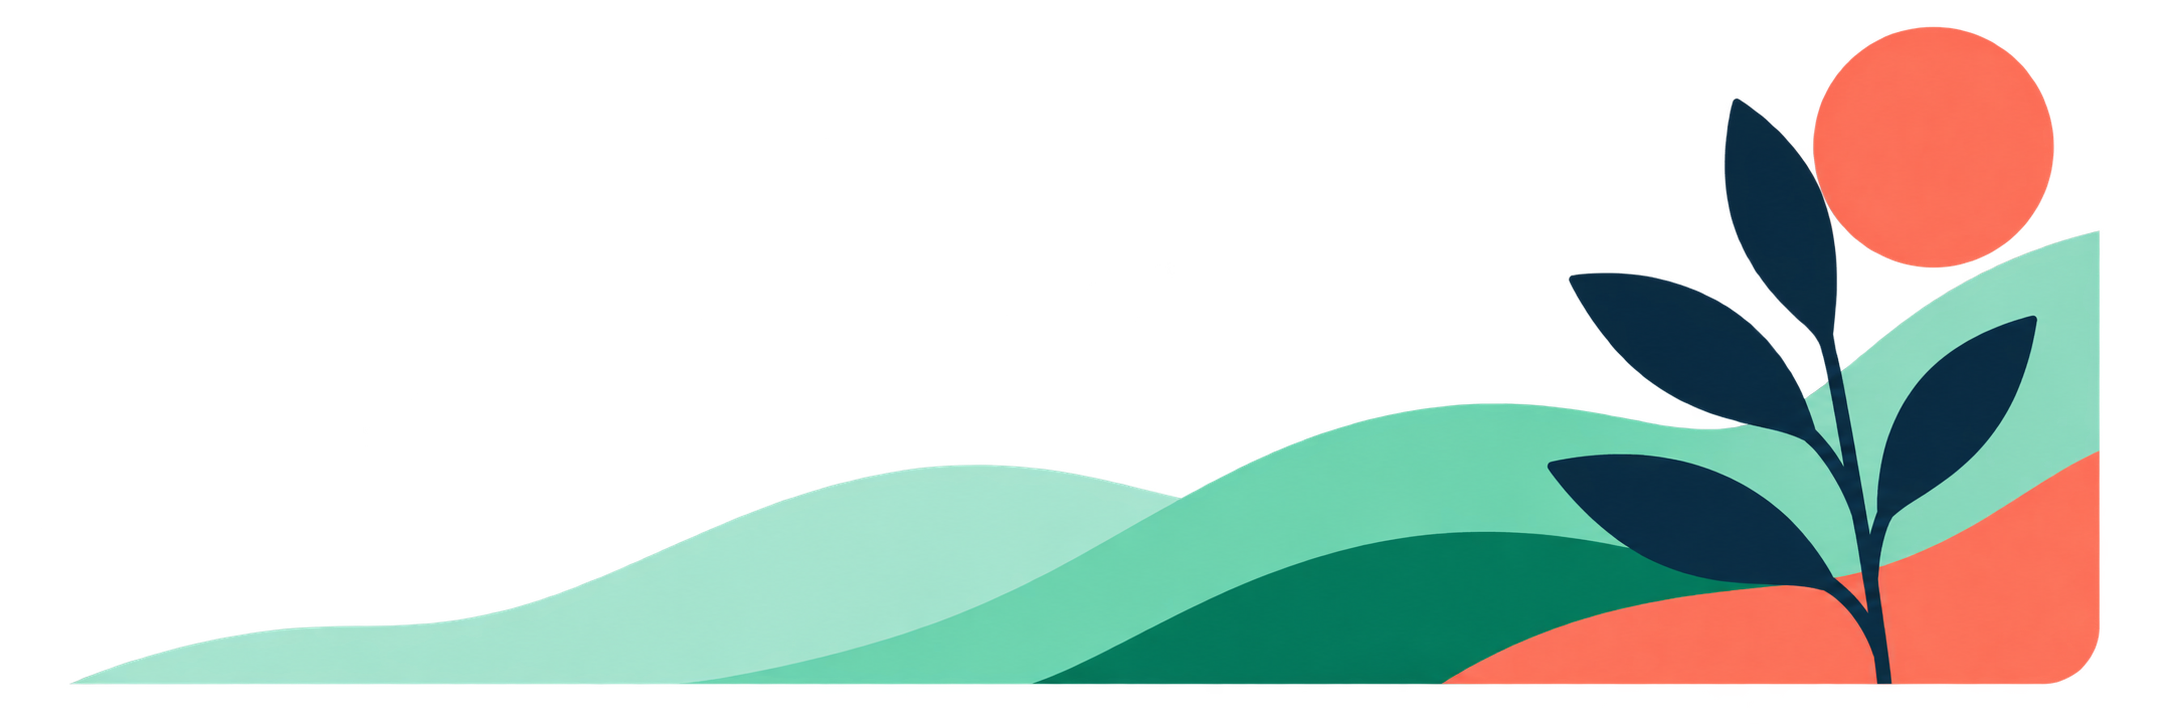
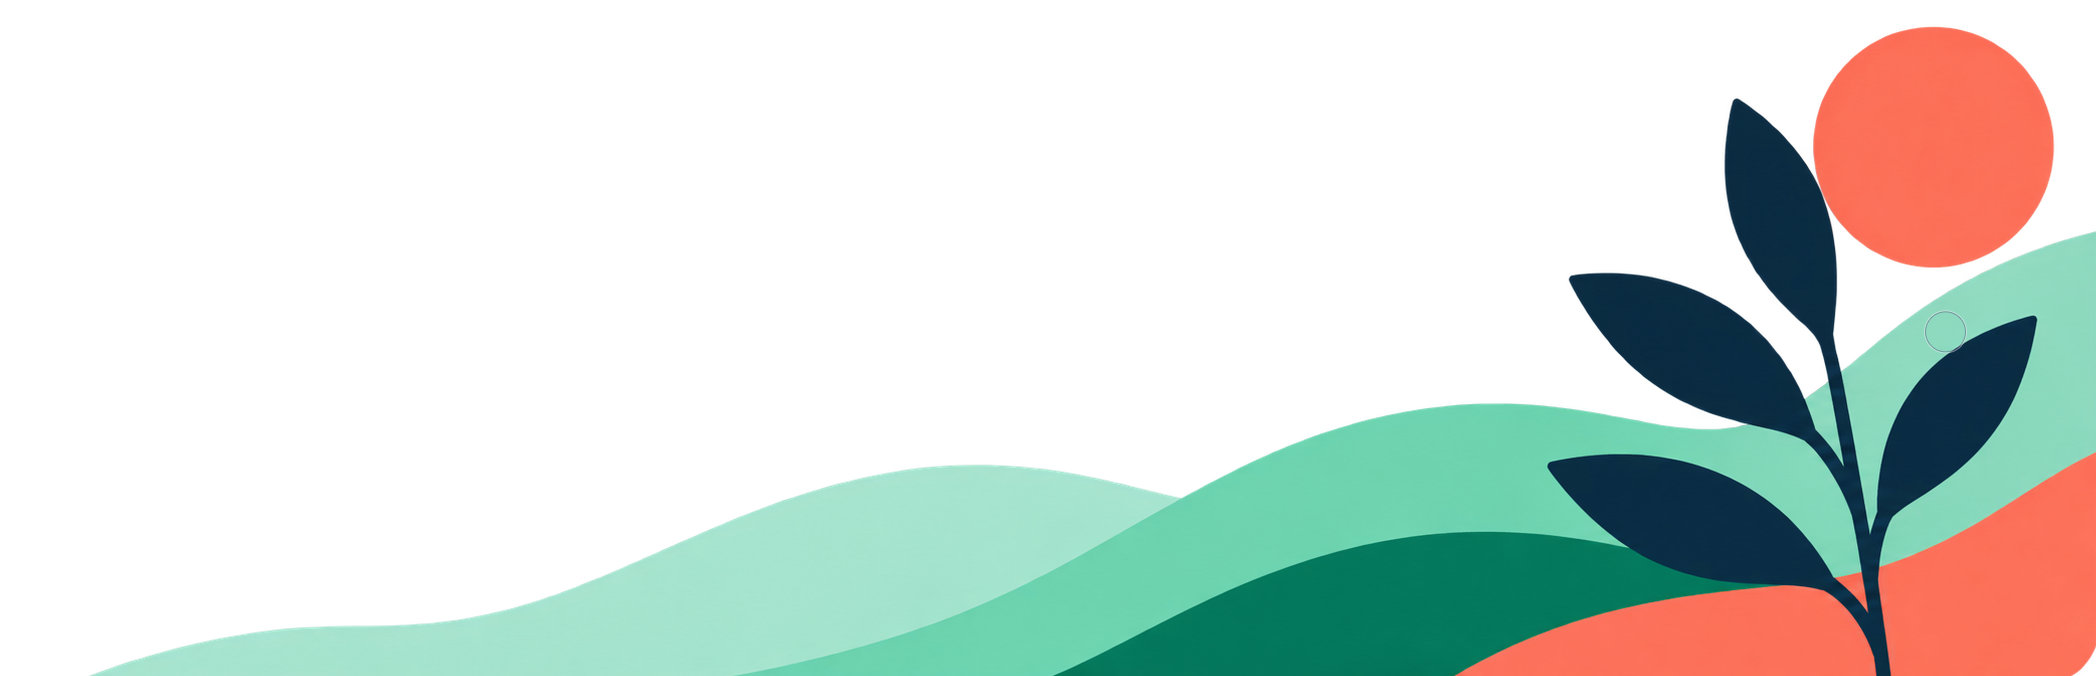
docs: clarify developer integration model

Changed region(s): [[0.031, 0.0311, 1.0, 1.0]]

diff --git a/src/app/developers/docs/concepts/page.tsx b/src/app/developers/docs/concepts/page.tsx
@@ -1,0 +1,114 @@
+import type { Metadata } from "next";
+import { ArrowDown, BadgeCheck, Blocks, Gift, Megaphone, UserRound } from "lucide-react";
+import { DocsCallout, DocsPageHeader, DocsSection, InlineCode } from "@/components/developer-docs/ui";
+
+export const metadata: Metadata = { title: "Core concepts" };
+
+const resources = [
+  {
+    icon: Megaphone,
+    title: "Campaign",
+    body: "A public community program. It controls the published widget, voting rounds, contribution budget, and the recipients supporters can choose.",
+  },
+  {
+    icon: Blocks,
+    title: "Developer project",
+    body: "An integration boundary. It owns API keys, browser origins, external user identities, entitlement rules, and webhook endpoints.",
+  },
+  {
+    icon: UserRound,
+    title: "Supporter",
+    body: "Your customer inside one developer project, identified by the stable external user ID supplied by your server.",
+  },
+  {
+    icon: Gift,
+    title: "Entitlement",
+    body: "A stable product-facing key and its current state. Rules decide when a supporter earns it; your application decides what it unlocks.",
+  },
+];
+
+export default function CoreConceptsPage() {
+  return (
+    <>
+      <DocsPageHeader
+        eyebrow="Core concepts"
+        title="Campaigns run the program. Projects connect your product."
+        description="Both belong to a workspace, but they solve different problems. They connect only when an identified supporter completes verified activity."
+      />
+
+      <DocsSection title="The resource model" description="A workspace can publish several campaigns and create several developer projects without pairing them one to one.">
+        <div className="grid gap-4 sm:grid-cols-2">
+          {resources.map(({ icon: Icon, title, body }) => (
+            <article key={title} className="rounded-2xl border border-line bg-surface p-5">
+              <Icon className="size-5 text-coral-dark" />
+              <h3 className="mt-4 text-lg font-semibold">{title}</h3>
+              <p className="mt-2 text-sm leading-6 text-ink-soft">{body}</p>
+            </article>
+          ))}
+        </div>
+      </DocsSection>
+
+      <DocsSection title="How an identified campaign donation flows" description="The developer project is attached at runtime through the supporter identity token—not through a permanent campaign setting.">
+        <div className="mx-auto max-w-2xl space-y-3">
+          <FlowStep number="1" title="Your app identifies the supporter" body="Your server issues a short-lived identity token from one developer project." />
+          <FlowArrow />
+          <FlowStep number="2" title="The campaign widget accepts that identity" body="The campaign and project must share a workspace, and the embedding origin must be allowed by the project." />
+          <FlowArrow />
+          <FlowStep number="3" title="The supporter contributes to a campaign recipient" body="The donation remains associated with the campaign and selected recipient for payment and reporting." />
+          <FlowArrow />
+          <FlowStep number="4" title="Our Impact records a project event" body={<>After PayPal capture succeeds, the identified donation becomes a <InlineCode>donation.completed</InlineCode> event in the project that issued the token.</>} />
+          <FlowArrow />
+          <FlowStep number="5" title="That project evaluates its rules" body="Only matching entitlement rules in that developer project update the supporter’s access." />
+        </div>
+      </DocsSection>
+
+      <DocsSection title="What is—and is not—connected">
+        <div className="overflow-hidden rounded-2xl border border-line bg-surface">
+          <RelationshipRow label="Campaign → recipient" value="Direct" detail="The campaign defines which connected recipients appear in its widget." />
+          <RelationshipRow label="Project → supporter" value="Direct" detail="The project owns the external identity namespace and supporter record." />
+          <RelationshipRow label="Project → entitlement" value="Direct" detail="Definitions and earning rules are scoped to one project." />
+          <RelationshipRow label="Campaign → project" value="Runtime" detail="There is no permanent one-to-one link. A valid project identity joins them for one supporter session." />
+        </div>
+        <div className="mt-5">
+          <DocsCallout title="Anonymous donations do not grant project entitlements" tone="secure">
+            Checkout can succeed without a project identity, but Our Impact cannot attribute that activity to one of your users. Likewise, an identified donation is evaluated only in the project that supplied the token—not across every project in the workspace.
+          </DocsCallout>
+        </div>
+      </DocsSection>
+
+      <DocsSection title="Events outside a campaign">
+        <p className="max-w-3xl leading-7 text-ink-soft">
+          Campaign widgets automatically record verified, identified PayPal donations. For trusted activity that happens elsewhere, your server can send <InlineCode>POST /api/v1/events</InlineCode> directly to a developer project. Those events can evaluate the same project-scoped entitlement rules without involving a campaign.
+        </p>
+      </DocsSection>
+    </>
+  );
+}
+
+function FlowStep({ number, title, body }: { number: string; title: string; body: React.ReactNode }) {
+  return (
+    <article className="grid grid-cols-[42px_1fr] gap-4 rounded-2xl border border-line bg-surface p-5">
+      <span className="grid size-10 place-items-center rounded-full bg-ink text-sm font-bold text-white">{number}</span>
+      <div>
+        <h3 className="font-semibold">{title}</h3>
+        <div className="mt-1.5 text-sm leading-6 text-ink-soft">{body}</div>
+      </div>
+    </article>
+  );
+}
+
+function FlowArrow() {
+  return <ArrowDown className="mx-auto size-5 text-mint-dark" aria-hidden="true" />;
+}
+
+function RelationshipRow({ label, value, detail }: { label: string; value: string; detail: string }) {
+  return (
+    <div className="grid gap-2 border-b border-line p-5 last:border-0 sm:grid-cols-[180px_90px_1fr] sm:items-center">
+      <strong className="text-sm">{label}</strong>
+      <span className="inline-flex w-fit items-center gap-1.5 rounded-full bg-mint/15 px-2.5 py-1 text-[11px] font-bold text-mint-dark">
+        <BadgeCheck className="size-3.5" /> {value}
+      </span>
+      <span className="text-sm leading-6 text-ink-soft">{detail}</span>
+    </div>
+  );
+}

diff --git a/src/app/developers/docs/page.tsx b/src/app/developers/docs/page.tsx
@@ -18,7 +18,7 @@ if (await impact.user.is("community_champion_theme")) {
 const concepts = [
   {
     icon: Fingerprint,
-    title: "Mike owns identity",
+    title: "Your app owns identity",
     body: "Your application keeps its login system and sends the stable user ID it already trusts.",
     href: "/developers/docs/guides/identity",
   },
@@ -59,7 +59,7 @@ export default function DeveloperDocumentationPage() {
         </div>
 
         <div className="mt-6 grid items-center gap-4 rounded-2xl border border-line bg-white p-5 sm:grid-cols-[1fr_auto_1fr_auto_1fr]">
-          <FlowNode label="Your app" detail="Mike signs Jamie in" />
+          <FlowNode label="Your app" detail="Authenticates a customer" />
           <ArrowRight className="mx-auto size-5 rotate-90 text-ink-soft sm:rotate-0" />
           <FlowNode label="Our Impact" detail="Evaluates verified support" accent />
           <ArrowRight className="mx-auto size-5 rotate-90 text-ink-soft sm:rotate-0" />
@@ -68,16 +68,22 @@ export default function DeveloperDocumentationPage() {
       </DocsSection>
 
       <DocsSection title="One check, any product reaction" description="Rules stay editable in the Our Impact dashboard. Your application depends only on the entitlement key.">
-        <CodeBlock code={entitlementCheck} filename="shop-theme.ts" />
+        <CodeBlock code={entitlementCheck} filename="community-access.ts" />
         <div className="mt-5">
           <DocsCallout title="SDK packages are in preview">
-            The package APIs shown in these guides are stable in the repository but are not on npm yet. Use the REST API today, or test the local packages from the Mike’s Vegan Shop example. Publishing is the next distribution step.
+            The SDK interfaces shown in these guides are available for preview but are not published to npm yet. Use the REST API for a deployable integration today; the OpenAPI contract is available for generated clients.
           </DocsCallout>
         </div>
       </DocsSection>
 
       <DocsSection title="Choose where to begin">
-        <div className="grid gap-4 sm:grid-cols-2">
+        <div className="grid gap-4 md:grid-cols-3">
+          <Link href="/developers/docs/concepts" className="rounded-2xl border border-line bg-surface p-6">
+            <Fingerprint className="size-5 text-coral-dark" />
+            <h3 className="mt-5 text-xl font-semibold">Understand the data model</h3>
+            <p className="mt-2 text-sm leading-6 text-ink-soft">See how workspaces, campaigns, projects, supporters, events, and entitlements fit together.</p>
+            <span className="mt-5 inline-flex items-center gap-2 text-sm font-semibold">Read core concepts <ArrowRight className="size-4" /></span>
+          </Link>
           <Link href="/developers/docs/quickstart" className="rounded-2xl bg-ink p-6 text-white">
             <ShieldCheck className="size-5 text-mint" />
             <h3 className="mt-5 text-xl font-semibold">Build the first integration</h3>

diff --git a/src/app/developers/docs/quickstart/page.tsx b/src/app/developers/docs/quickstart/page.tsx
@@ -19,8 +19,8 @@ const response = await fetch(
       authorization: \`Bearer \${process.env.OUR_IMPACT_SECRET_KEY}\`,
     },
     body: JSON.stringify({
-      external_user_id: "mikes-vegan-shop:jamie",
-      display_name: "Jamie",
+      external_user_id: "storefront:user_01JABC",
+      display_name: "Avery",
       ttl_seconds: 900,
     }),
   },
@@ -69,17 +69,17 @@ export default function QuickstartPage() {
           </DocsStep>
 
           <DocsStep number={2} title="Create a short-lived identity token">
-            <p>After your app authenticates Jamie, ask Our Impact for a token tied to Mike’s stable customer ID. Never accept the external ID directly from an untrusted browser request.</p>
+            <p>After your app authenticates a customer, ask Our Impact for a token tied to your stable internal user ID. Never accept the external ID directly from an untrusted browser request.</p>
             <div className="mt-4"><CodeBlock code={createIdentity} filename="server/our-impact.ts" /></div>
           </DocsStep>
 
-          <DocsStep number={3} title="Read Jamie’s entitlements in the browser">
+          <DocsStep number={3} title="Read the customer’s entitlements in the browser">
             <p>Return the token to the same authenticated browser. Our Impact checks the token, publishable key, and configured browser origin together.</p>
             <div className="mt-4"><CodeBlock code={readEntitlements} filename="client/community-perks.ts" /></div>
           </DocsStep>
 
           <DocsStep number={4} title="Turn a stable key into your own experience">
-            <p>Your code decides what <InlineCode>community_champion_theme</InlineCode> means. The dashboard can change the qualifying rule without requiring Mike’s developers to ship new product logic.</p>
+            <p>Your code decides what <InlineCode>community_champion_theme</InlineCode> means. Program owners can change the qualifying rule without requiring your software team to ship new product logic.</p>
           </DocsStep>
         </div>
       </DocsSection>

diff --git a/src/app/developers/docs/guides/identity/page.tsx b/src/app/developers/docs/guides/identity/page.tsx
@@ -33,7 +33,7 @@ export default function IdentityGuidePage() {
       <DocsPageHeader
         eyebrow="Guide · Identity"
         title="Keep your login. Share only a stable customer identity."
-        description="Our Impact does not authenticate Mike’s customers. Mike’s server confirms who is signed in, then exchanges that trusted identity for a short-lived browser token."
+        description="Our Impact does not replace your authentication. Your server confirms who is signed in, then exchanges that trusted identity for a short-lived browser token."
       />
 
       <DocsSection title="The trust boundary">
@@ -47,7 +47,7 @@ export default function IdentityGuidePage() {
       <DocsSection title="Choose the external user ID" description="The external ID is the join between your customer record and their Our Impact activity.">
         <ul className="space-y-3 text-sm leading-6 text-ink-soft">
           <li><strong className="text-ink">Do:</strong> use an immutable internal database ID such as <InlineCode>usr_01JABC</InlineCode>.</li>
-          <li><strong className="text-ink">Do:</strong> namespace IDs if several apps share a project, for example <InlineCode>mikes-shop:usr_01JABC</InlineCode>.</li>
+          <li><strong className="text-ink">Do:</strong> namespace IDs if several apps share a project, for example <InlineCode>storefront:usr_01JABC</InlineCode>.</li>
           <li><strong className="text-ink">Avoid:</strong> email addresses, display names, or anything a customer can change or claim.</li>
         </ul>
       </DocsSection>

diff --git a/src/app/developers/docs/guides/entitlements/page.tsx b/src/app/developers/docs/guides/entitlements/page.tsx
@@ -40,7 +40,7 @@ export default function EntitlementsGuidePage() {
 
       <DocsSection title="Design the contract between teams">
         <div className="grid gap-4 sm:grid-cols-2">
-          <article className="rounded-2xl border border-line bg-surface p-5"><p className="text-xs font-bold uppercase tracking-[0.12em] text-coral-dark">Program owner</p><h3 className="mt-3 text-lg font-semibold">Defines who qualifies</h3><p className="mt-2 text-sm leading-6 text-ink-soft">Mike or his marketing team can say “donate at least $50” or “complete three donations this month.”</p></article>
+          <article className="rounded-2xl border border-line bg-surface p-5"><p className="text-xs font-bold uppercase tracking-[0.12em] text-coral-dark">Program owner</p><h3 className="mt-3 text-lg font-semibold">Defines who qualifies</h3><p className="mt-2 text-sm leading-6 text-ink-soft">A program or community team can say “donate at least $50” or “complete three donations this month.”</p></article>
           <article className="rounded-2xl border border-line bg-surface p-5"><p className="text-xs font-bold uppercase tracking-[0.12em] text-coral-dark">Software team</p><h3 className="mt-3 text-lg font-semibold">Defines what the key does</h3><p className="mt-2 text-sm leading-6 text-ink-soft">Code reacts to <InlineCode>community_champion_theme</InlineCode> without duplicating qualification logic.</p></article>
         </div>
       </DocsSection>

diff --git a/src/app/developers/docs/guides/events/page.tsx b/src/app/developers/docs/guides/events/page.tsx
@@ -13,8 +13,8 @@ const eventRequest = `await fetch("https://our-impact.vercel.app/api/v1/events",
   body: JSON.stringify({
     id: "donation_01JABC123",
     type: "donation.completed",
-    external_user_id: "mikes-vegan-shop:jamie",
-    display_name: "Jamie",
+    external_user_id: "storefront:user_01JABC",
+    display_name: "Avery",
     occurred_at: "2026-11-06T12:00:00Z",
     properties: {
       amount_minor: 5000,
@@ -29,7 +29,7 @@ const eventResponse = `{
   "replayed": false,
   "entitlements": [
     {
-      "entitlement_key": "generous_guy",
+      "entitlement_key": "community_champion",
       "state": "active",
       "qualifying_count": 1,
       "progress_value": 5000,

diff --git a/src/components/developer-docs/navigation.tsx b/src/components/developer-docs/navigation.tsx
@@ -2,7 +2,7 @@
 
 import Link from "next/link";
 import { usePathname } from "next/navigation";
-import { BookOpen, Braces, Fingerprint, Gift, Radio, Rocket } from "lucide-react";
+import { BookOpen, Braces, Fingerprint, Gift, Layers3, Radio, Rocket } from "lucide-react";
 import { cn } from "@/lib/utils";
 
 const sections = [
@@ -10,6 +10,7 @@ const sections = [
     label: "Start",
     links: [
       { href: "/developers/docs", label: "Overview", icon: BookOpen },
+      { href: "/developers/docs/concepts", label: "Core concepts", icon: Layers3 },
       { href: "/developers/docs/quickstart", label: "Quickstart", icon: Rocket },
     ],
   },

diff --git a/src/app/developers/docs/api-reference/page.tsx b/src/app/developers/docs/api-reference/page.tsx
@@ -5,7 +5,7 @@ import { DocsCallout, DocsPageHeader, DocsSection, EndpointCard, InlineCode } fr
 
 export const metadata: Metadata = { title: "REST API reference" };
 
-const baseRequest = `curl https://our-impact.vercel.app/api/v1/users/mikes-vegan-shop%3Ajamie/entitlements \\
+const baseRequest = `curl https://our-impact.vercel.app/api/v1/users/storefront%3Auser_01JABC/entitlements \\
   --header "Authorization: Bearer $OUR_IMPACT_SECRET_KEY"`;
 
 export default function ApiReferencePage() {
